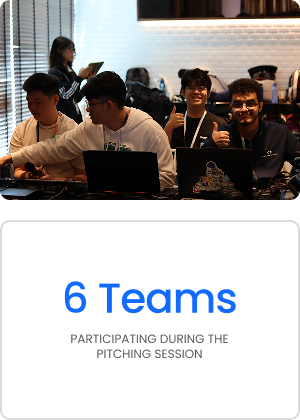
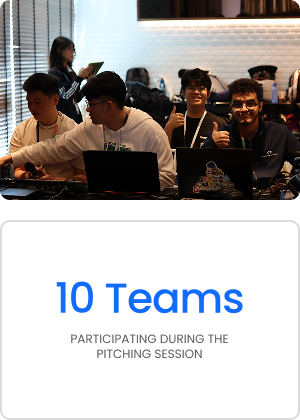
change image and fix time for demo day

Changed region(s): [[0.18, 0.65, 0.81, 0.7738]]

diff --git a/src/app/_components/HomePage/demo-day-section/DemoDaySection.tsx b/src/app/_components/HomePage/demo-day-section/DemoDaySection.tsx
@@ -253,7 +253,7 @@ const DemoDaySection = () => {
                                 />
                             </div>
                             <p className="text-gray-600 text-sm md:text-base dark:text-gray-400">
-                                <i>Sunday, May 4, 2025 <br />10:00 AM – 3:00 PM (MYT)</i>
+                                <i>Sunday, May 4, 2025 <br />10:00 AM – 4:30 PM (MYT)</i>
                             </p>
                         </div>
                     </div>
